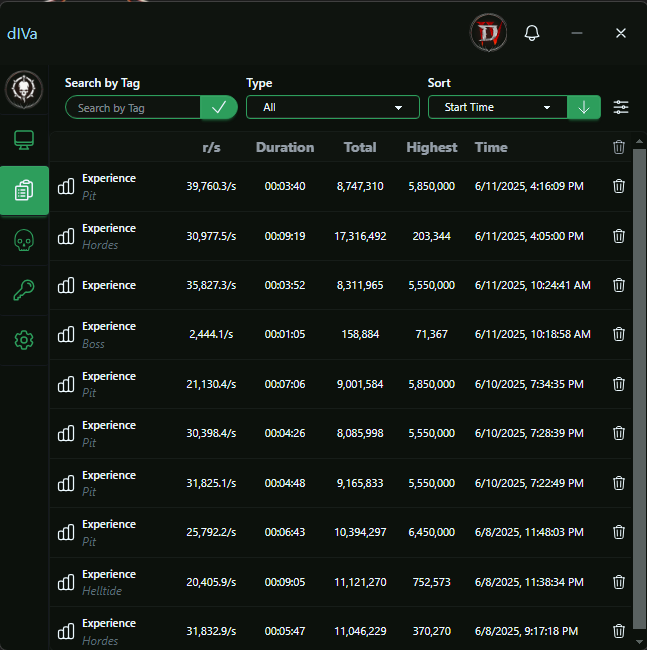
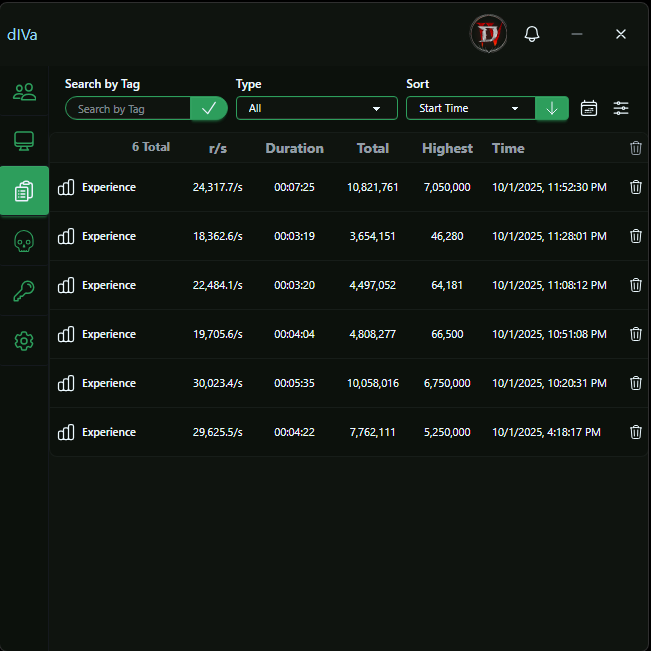
v2.3.0 - History Date Filtering

diff --git a/dIVa/meter-log-and-history.html b/dIVa/meter-log-and-history.html
@@ -38,6 +38,10 @@
               <li>
                 <strong>Session History:</strong> View all your meter sessions with detailed statistics including averages, duration, and timestamps.
               </li>
+              <li>
+                <strong>Date Range Filtering:</strong> Filter sessions by specific date ranges for precise historical analysis and targeted data
+                exploration.
+              </li>
               <li><strong>Type Filtering:</strong> Filter sessions by meter type (Gold, Experience, etc.) to focus on specific data.</li>
               <li><strong>Sorting Options:</strong> Sort sessions by start time or average resource rate per second (r/s).</li>
               <li><strong>Tag System:</strong> Add custom tags to sessions for better organization and quick filtering.</li>
@@ -45,6 +49,7 @@
               <li>
                 <strong>Timestamp Display:</strong> Toggle timestamp visibility, this is useful for when you just want to see the relevent data.
               </li>
+              <li><strong>Total Meter Sessions Counter:</strong> Real-time display of total session count for better progress tracking.</li>
               <li><strong>Session Management:</strong> Delete individual sessions to keep your log clean and organized.</li>
               <li>
                 <strong>Session Details:</strong> Click the info button at the end of any row to view detailed session information in a popover
@@ -89,10 +94,11 @@
                     class="mb-3 mx-auto rounded-lg border border-base-content/10"
                   />
                   <ul class="text-sm space-y-1 list-disc list-inside ml-4">
+                    <li>Filter by date range for precise historical analysis</li>
                     <li>Filter by meter type (Gold/Experience)</li>
                     <li>Sort by start time or average rate</li>
                     <li>Search sessions by custom tags</li>
-                    <li>Clear tag filters with one click</li>
+                    <li>Clear all filters with one click</li>
                   </ul>
                 </div>
               </div>
@@ -152,8 +158,25 @@
           </div>
 
           <div class="mt-6">
-            <div class="flex flex-wrap justify-center mb-4">
-              <img src="images/meter/history.png" alt="History View" class="mb-4 mx-auto rounded-lg" />
+            <div class="grid grid-cols-1 md:grid-cols-2 gap-4 mb-4">
+              <div class="card bg-base-200">
+                <figure class="px-4 pt-4">
+                  <img src="images/meter/history.png" alt="History View - Collapsed Date Range" class="rounded-xl" />
+                </figure>
+                <div class="card-body p-4">
+                  <h3 class="card-title text-sm">History View - Collapsed Date Range</h3>
+                  <p class="text-sm">Date Range filter is collapsed, showing calendar icon</p>
+                </div>
+              </div>
+              <div class="card bg-base-200">
+                <figure class="px-4 pt-4">
+                  <img src="images/meter/history-expanded.png" alt="History View - Expanded Date Range" class="rounded-xl" />
+                </figure>
+                <div class="card-body p-4">
+                  <h3 class="card-title text-sm">History View - Expanded Date Range</h3>
+                  <p class="text-sm">Date Range filter is expanded, showing up arrow to collapse</p>
+                </div>
+              </div>
             </div>
             <div class="mt-4">
               <p class="mb-4">
@@ -161,6 +184,37 @@
                 <strong>History</strong> button on the Menu (if you are not on the Dashboard).<br />
                 It is a more comprehensive view of your farming sessions - it allows you to see more data and sort it in a more detailed way.
               </p>
+
+              <div class="bg-info/10 rounded-lg p-4 border-l-4 border-info mb-4">
+                <div class="flex items-start gap-3">
+                  <svg class="size-6 text-info mt-0.5 flex-shrink-0" fill="none" viewBox="0 0 24 24" stroke-width="1.5" stroke="currentColor">
+                    <path
+                      stroke-linecap="round"
+                      stroke-linejoin="round"
+                      d="M12 18v-5.25m0 0a6.01 6.01 0 0 0 1.5-.189m-1.5.189a6.01 6.01 0 0 1-1.5-.189m3.75 7.478a12.06 12.06 0 0 1-6.001 0c-3.198 0-6.001-1.5-6.001-3.5 0-1.5 2.803-3.5 6.001-3.5s6.001 1.5 6.001 3.5c0 1.5-2.803 3.5-6.001 3.5Z"
+                    />
+                  </svg>
+                  <div>
+                    <h5 class="font-semibold text-info mb-1">Collapsible Date Range Filter</h5>
+                    <p class="text-sm mb-2">
+                      The Date Range Filter is a new collapsible section in the History filter menu that provides advanced date-based filtering
+                      capabilities:
+                    </p>
+                    <ul class="text-sm space-y-1 list-disc list-inside ml-4">
+                      <li><strong>Toggle Button:</strong> Click the calendar icon to expand the date range filter section</li>
+                      <li>
+                        <strong>Calendar Interface:</strong> When expanded, shows interactive calendar widgets for selecting start and end dates
+                      </li>
+                      <li><strong>Collapse Button:</strong> Click the up arrow icon to collapse the date range section back to a compact view</li>
+                      <li><strong>Individual Date Clearing:</strong> Each date field has its own clear button for quick reset</li>
+                      <li><strong>Clear All Dates:</strong> Use the "Clear" button to reset both from and to dates simultaneously</li>
+                      <li>
+                        <strong>Persistent Settings:</strong> Your date range preferences are remembered across sessions for consistent filtering
+                      </li>
+                    </ul>
+                  </div>
+                </div>
+              </div>
             </div>
 
             <div class="grid md:grid-cols-2 gap-6">
@@ -191,8 +245,10 @@
                   <h4 class="font-semibold text-accent mb-3">Enhanced Filtering</h4>
                   <ul class="text-sm space-y-2 list-disc list-inside ml-2">
                     <li><strong>Horizontal Filter Bar:</strong> Always-visible filter controls for quick access</li>
+                    <li><strong>Date Range Filtering:</strong> Advanced date-based filtering for precise historical analysis</li>
                     <li><strong>Extended Search:</strong> More robust tag and type filtering capabilities</li>
                     <li><strong>Character-Specific:</strong> Filter sessions by specific character when enabled</li>
+                    <li><strong>Smart Filter Clearing:</strong> Enhanced filter management with improved clearing options</li>
                   </ul>
                 </div>
               </div>

diff --git a/dIVa/index.html b/dIVa/index.html
@@ -35,6 +35,24 @@
             });
           });
       </script>
+      <div id="patch-2-3-0" class="card bg-neutral shadow-lg compact my-8 section-offset">
+        <div class="card-body">
+          <h2 class="card-title text-accent text-xl sm:text-2xl">v2.3.0 - History Date Filtering</h2>
+          <div>
+            <ul class="list-disc list-inside ml-4 px-4 pt-2">
+              <li>
+                <strong>Enhanced Filter Management:</strong> Improved filter clearing and management for a better user experience. Date Range Filter
+                is a new collapsible section in the History filter menu.
+              </li>
+              <li>
+                <strong>Date Range Filter:</strong> Advanced date-based filtering for precise session analysis and historical data exploration.
+                Persistent date range settings that remember your preferences across sessions
+              </li>
+              <li><strong>Total Meter Sessions Counter:</strong> Real-time meter session count display for better tracking</li>
+            </ul>
+          </div>
+        </div>
+      </div>
       <div id="patch-2-2-0" class="card bg-neutral shadow-lg compact my-8 section-offset">
         <div class="card-body">
           <h2 class="card-title text-accent text-xl sm:text-2xl">v2.2.0 - Enhanced Leveling System</h2>

diff --git a/README.md b/README.md
@@ -10,7 +10,7 @@ _Designed for true enthusiasts, **dIVa** is your ultimate aRPG analytics compani
 
 ### Supported Games
 
-- Path of Exile 2 (Dawn of the Hunt)
+- Path of Exile 2 (The Third Edit)
 - Diablo IV (including Vessel of Hatred expansion)
 - Diablo II: Resurrected
 
@@ -28,14 +28,17 @@ dIVa supports multiple languages, allowing you to enjoy the full experience in y
 A <a href="https://discord.gg/Kp4dNHbmcJ" class="text-accent underline">Discord</a> server is now available for dIVa users to discuss and share their experiences with the app.
 Please feel free to report any issues, or leave suggestions!
 
-## (Latest Features) dIVa v2.2.0 - Enhanced Leveling System
+## (Latest Features) v2.3.0 - History Date Filtering
 
-- **Speed Leveling Tracker** - All of the following improvements are transparent to the user experience. Time segment tracking that adapts to your play sessions - Leveling data now breaks down into precise time segments based on when you start and pause your speed leveling tracker
+- **Enhanced Filter Management** - Improved filter clearing and management for a better user experience. Date Range Filter is a new collapsible section in the Historyfilter menu.
+- **Date Range Filter** - Advanced date-based filtering for precise session analysis and historical data exploration.Persistent date range settings that remember your preferences across sessions
+- **Total Meter Sessions Counter** - Real-time meter session count display for better tracking
 
 ### Diablo IV: Infernal Chaos
+
 Updated data and systems for Season 10
 
-### Path of Exile 2 (Dawn of the Hunt)
+### Path of Exile 2 (The Third Edit)
 
 - **Character Detection:** Introducing a specialized class detection system for Path of Exile 2 characters.
 - When you log in, dIVa will prompt you to select your character's class, and will remember it for future sessions, ensuring accurate character tracking and analytics while Overwolf game events are in development.
